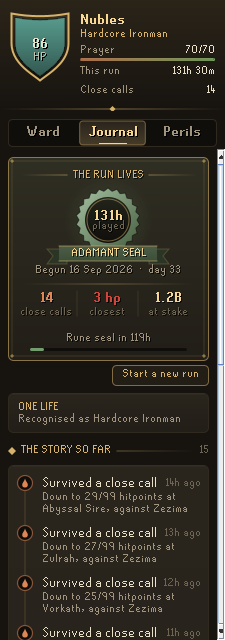
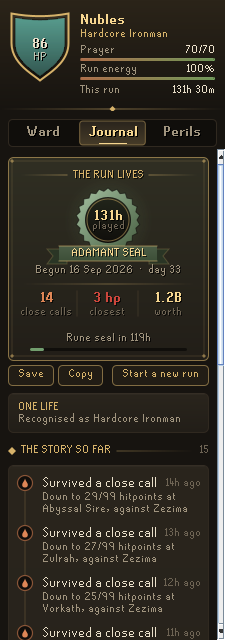
README and screenshots for round 6: the seal card, the crest's run energy, prayer restores in Readiness

diff --git a/README.md b/README.md
@@ -12,7 +12,7 @@ It is the second plugin in the **Codex** suite, after [Codex Navigator](https://
 
 ## What it does
 
-- **Ward.** A dial from Calm to Peril with the single reason that matters most and, in danger, the one thing to do now: teleport out with the item you carry, eat, walk south to a level your teleport works at, or run. Below it: who is attacking you, where you are and how risky it is, and one ledger of your readiness (food, a way out, a last resort, prayer, cures).
+- **Ward.** A dial from Calm to Peril with the single reason that matters most and, in danger, the one thing to do now: teleport out with the item you carry, eat, walk south to a level your teleport works at, or run. Below it: who is attacking you, where you are and how risky it is, and one ledger of your readiness (food, a way out, a last resort, prayer restores, cures). The crest at the top keeps your hitpoints, prayer, run energy and the length of the run in view on every tab.
 - **Before you go.** Somewhere quiet, the Ward checks the trip ahead: food against what you plan to take, a way out, the protection your destination is known for (dragonfire, venom, a wyvern's breath, smoke, a burning floor, cave horrors) and a last resort. No ring of life on, but two in the bank? It says so. With [Codex Bank Steward](https://github.com/Nubles/OSRS-Codex-Bank-Steward) installed, Guardian also knows your whole bank before you open it this session: a forgotten teleport, anti-venom or kit item is named with what is waiting in the bank ("No teleport: Glory(4) in the bank"), and lines you can fix at a bank are marked so. Walk away from a bank and the plaque runs the same check once, worst problems first.
 - **Codex Quartermaster aware.** With [Codex Quartermaster](https://github.com/Nubles/OSRS-Codex-Quartermaster) installed, the check follows the kit you chose there: its destination, its food, and the survival supplies it packs (prayer, anti-venom, antifire, brews, teleport tabs). It reads the kit list Quartermaster publishes for other plugins (`kitsV1`), with its older record as a fallback and for the bank; a kit only counts once you have chosen it, so a fresh Quartermaster install is not taken for a Vorkath trip. Without it, Guardian checks with its own sense.
 - **Entry briefings.** Walk into a boss lair, a raid, a dangerous dungeon or the Wilderness and the in-game plaque checks your food, your teleport and your ring of life before the first hit lands. Safe minigames say so.
@@ -20,11 +20,12 @@ It is the second plugin in the **Codex** suite, after [Codex Navigator](https://
 - **Peril.** Guardian calls peril whenever a death could come in the next few ticks: hitpoints critical under fire, one more hit like your worst recent one would kill you (two attackers landing together count as one hit), or your hitpoints run out within about twelve seconds at the current pace. The plaque beats with what to do, the screen edge glows red and you get a notification. A ring of life is noted but never talks the read down: one hit from above its threshold skips it.
 - **Journal.** The story of the run, newest first: close calls survived with how low you went, risky places entered, milestones, disconnects in danger, a death or the loss of hardcore status (even one that happened on another client, noticed at the next login). A death in a safe minigame is recorded as safe and does not end the run.
 - **The run's seal.** The Journal opens on a drawn seal, the card worth a screenshot: a metal earned by hours played on one life (bronze, iron at 5 h, steel 15, black 30, mithril 60, adamant 120, rune 250, dragon 500), its tier on a ribbon, the day the run began, the close calls survived, the closest of them, and, with [Codex Ledger](https://github.com/Nubles/OSRS-Codex-Ledger) installed, the account's worth (Ledger's saved figure, read only). A bar shows the road to the next seal. A fallen run keeps the seal it reached, cracked.
+- **Seal card.** Save (or Copy) under the seal makes a picture of it to share: your name and how the account is played, then the seal as the journal draws it. Turn off "Name on cards" in the settings to share it without your name.
 - **Perils.** Close calls, the lowest you have been, the biggest hit taken, time spent in danger, and a ranking of what has dealt you the most damage and where it got close.
 - **Hit memory.** Guardian remembers the hardest each kind of monster has hit you, told apart by name and level, and learns only from hits taken while that monster was the one thing attacking you. The next time one is on you, the Ward shows "Hits 31" beside it and calls peril if your hitpoints are at or below that figure, before the first hit of the fight lands. In multi-combat two remembered hitters count together, since both can land on one tick. The Perils tab lists your hardest hitters. The figure is the most you have taken, with your prayer and armour at the time, so the monster may hit harder.
 - **Lag watch.** Guardian times the game's ticks. When they start arriving late, or the game freezes for seconds, while something can hurt you, the Ward shows a Connection row, peril weighs it, the advice becomes "Lagging: teleport out", and you get a notification, at most once a minute (turn it off with "Notify lag in danger"). Region loads, logins and world hops are not counted as lag, and neither are the first few heavy ticks after a login or hop while the game catches up. The journal records each spike.
 - **Replays.** Every close call and death in the journal carries a replay of its last seconds, tick by tick: your hitpoints as a line that turns red where they ran low, each hit as a bar, a bead for every bite of food (teal) and potion sip (gold), and a ring at the lowest point. Under it, the story in a line: "Took 78 in 2s · ate 2 · drank 1", with the biggest hit and who dealt it in the tooltip. Recorded only from what the client showed you.
-- **Prayer watch.** In a fight, Guardian times how fast your prayer is falling and shows how long it lasts on the Ward ("31/70 · 25s left"). Under fire with less than half a minute left, the peril read says so, and with under fifteen seconds the advice becomes "Prayer almost out: teleport" (or "back off" with no teleport). The estimate is rounded down, so it never promises more prayer than you have; a restore starts a fresh measurement.
+- **Prayer watch.** In a fight, Guardian times how fast your prayer is falling and shows how long it lasts on the Ward ("25s left"; the crest above has the points themselves). Under fire with less than half a minute left, the peril read says so, and with under fifteen seconds the advice becomes "Prayer almost out: teleport" (or "back off" with no teleport). The estimate is rounded down, so it never promises more prayer than you have; a restore starts a fresh measurement.
 - **Out of run energy.** In the Wilderness with no teleport that works, running out is the plan, and it is only a plan with energy to run on. Under 10% run energy while something is on you, the Ward says so, and if you carry a stamina, energy or super energy potion the advice becomes "Sip energy, run south now" on the surface, or "Sip energy, run for the exit" underground and in boss lairs, where south is no way out.
 - **Places remember.** Walk back into somewhere you nearly died and the entry briefing, the Ward's place card and the trip check say so: "2 close calls here, 6 hp low", and the hardest hit you took there.
 
@@ -36,6 +37,10 @@ It is the second plugin in the **Codex** suite, after [Codex Navigator](https://
   <img src="docs/screenshots/5-briefing.png" width="200" alt="Entry briefing">
   <img src="docs/screenshots/6-plaque-peril.png" width="200" alt="Plaque in peril">
   <img src="docs/screenshots/7-plaque-limit.png" width="200" alt="Past your teleport's reach">
+</p>
+
+<p align="center">
+  <img src="docs/screenshots/9-seal-card.png" width="260" alt="Seal card">
 </p>
 
 ## Rules posture
